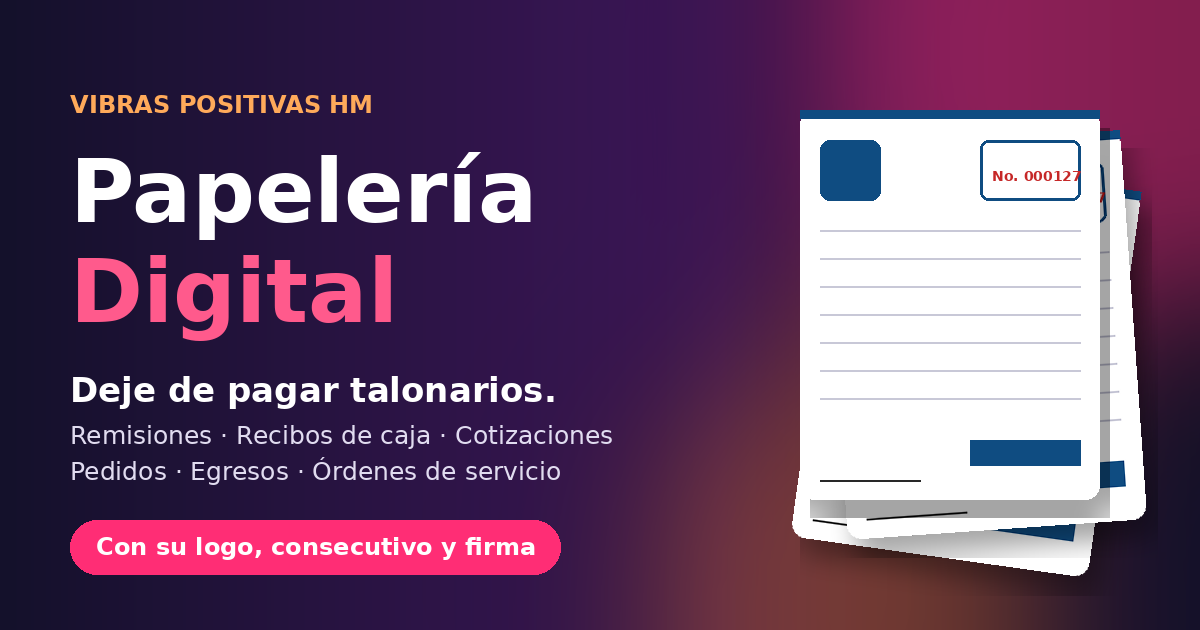
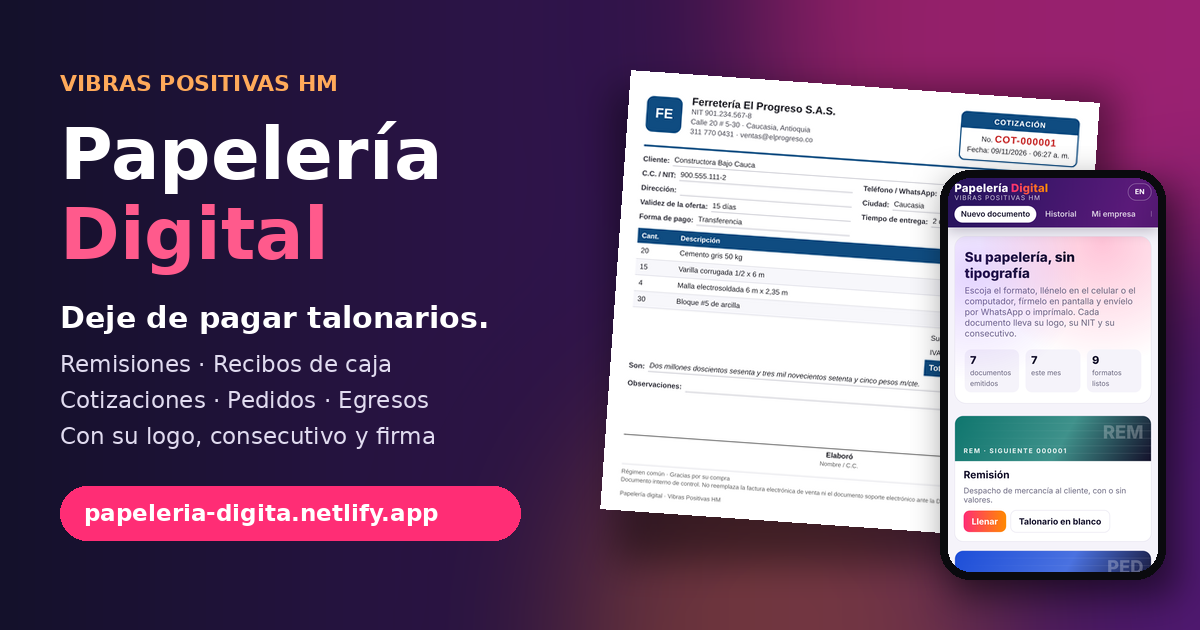
Vista previa del enlace con la URL de Netlify (papeleria-digita) y capturas reales de la app
Claude-Session: https://claude.ai/code/session_01Qv96KXvUwpZkrgMx2Fh2Lx

diff --git a/index.html b/index.html
@@ -9,13 +9,13 @@
 <!-- Vista previa del enlace (9 etiquetas OG/Twitter) -->
 <meta property="og:title" content="Papelería Digital · Vibras Positivas HM">
 <meta property="og:description" content="Su papelería de empresa en digital: remisiones, recibos, cotizaciones, pedidos y más, con su logo y consecutivo. Deje de pagar talonarios.">
-<meta property="og:image" content="https://papeleria-vibras.netlify.app/og-image.png">
-<meta property="og:url" content="https://papeleria-vibras.netlify.app/">
+<meta property="og:image" content="https://papeleria-digita.netlify.app/og-image.png">
+<meta property="og:url" content="https://papeleria-digita.netlify.app/">
 <meta property="og:type" content="website">
 <meta name="twitter:card" content="summary_large_image">
 <meta name="twitter:title" content="Papelería Digital · Vibras Positivas HM">
 <meta name="twitter:description" content="Su papelería de empresa en digital, con su logo y consecutivo. Deje de pagar talonarios.">
-<meta name="twitter:image" content="https://papeleria-vibras.netlify.app/og-image.png">
+<meta name="twitter:image" content="https://papeleria-digita.netlify.app/og-image.png">
 <meta property="og:image:width" content="1200">
 <meta property="og:image:height" content="630">
 <link rel="manifest" href="manifest.json">

diff --git a/README.md b/README.md
@@ -37,7 +37,7 @@ En el navegador del dispositivo (localStorage, ≈ 5 MB). Recomendar a cada clie
 
 ## Publicar
 1. Subir a GitHub (repo `haroldco45/papeleria-digital`): `index.html`, `manifest.json`, `sw.js`, `icon-192.png`, `icon-512.png`, `og-image.png`, `README.md`.
-2. Conectar el repo en Netlify con el nombre de sitio **papeleria-vibras** → `https://papeleria-vibras.netlify.app/`.
+2. Conectar el repo en Netlify con el nombre de sitio **papeleria-digita** → `https://papeleria-digita.netlify.app/`.
 3. Si el nombre del sitio cambia, cambiar la URL en las etiquetas `og:url`, `og:image` y `twitter:image` de `index.html`.
 
 ---
